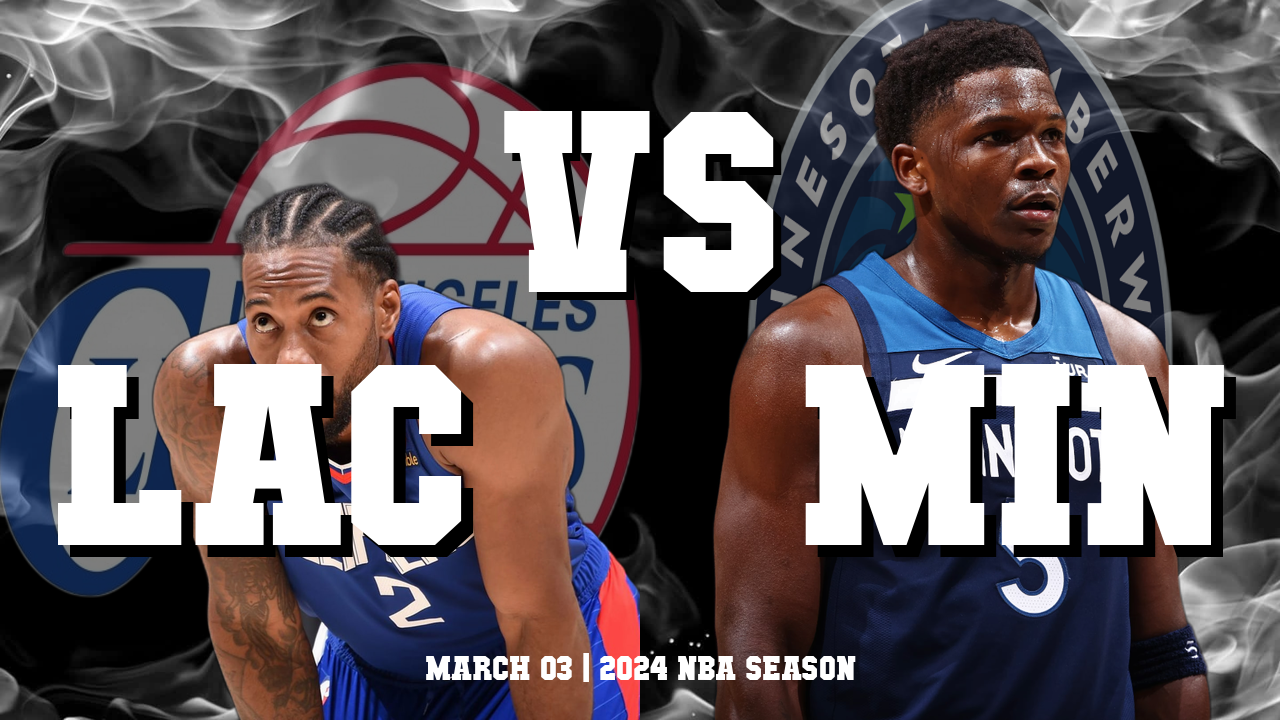
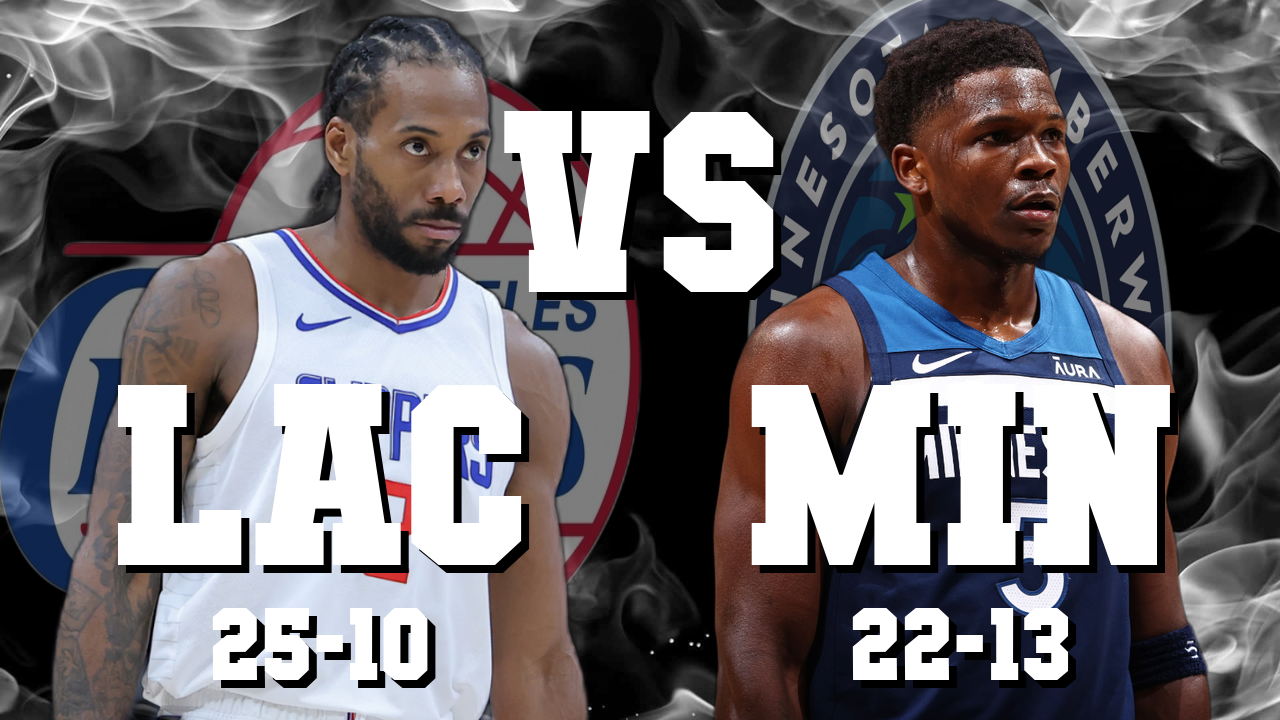
feat: Enhance team information display and layout in nba_highlight_thumbnail.png

diff --git a/src/main.py b/src/main.py
@@ -328,33 +328,80 @@ def main(
         team1_name = "LAC"
         team2_name = "MIN"
         team_name_font = ImageFont.truetype(font_path, 300)
-        team1_name_position = ((thumbnail_width - text_width) // 4 - 200, thumbnail_height - 400)
-        team2_name_position = (3 * (thumbnail_width - text_width) // 4 + 50, thumbnail_height - 400)
-        # Set shadow details
-        shadow_offset = (12, 12)
-        shadow_color = "black"
+        # Calculate the bounding box and thus the width of the team names
+        team1_name_bbox = draw.textbbox((0, 0), team1_name, font=team_name_font)
+        team2_name_bbox = draw.textbbox((0, 0), team2_name, font=team_name_font)
 
-        # Draw the team names with shadows
-        for team_name, team_name_position in [(team1_name, team1_name_position), (team2_name, team2_name_position)]:
-            # Calculate the bounding box for the text and the shadow position
-            bbox = draw.textbbox(team_name_position, team_name, font=team_name_font)
-            text_width = bbox[2] - bbox[0]
-            text_height = bbox[3] - bbox[1]
-            shadow_position = (team_name_position[0] + shadow_offset[0], team_name_position[1] + shadow_offset[1])
+        team1_name_width = team1_name_bbox[2] - team1_name_bbox[0]
+        team2_name_width = team2_name_bbox[2] - team2_name_bbox[0]
+
+        team_name_y_offset = 380
+
+        # Calculate the `y` position for the team names
+        team1_name_y = thumbnail_height - team_name_y_offset
+        team2_name_y = thumbnail_height - team_name_y_offset
+
+        # Calculate new positions for the team names to be centered in their respective halves
+        team1_name_x = (half_width - team1_name_width) // 2
+        team2_name_x = half_width + (half_width - team2_name_width) // 2
+
+        # Now, define the position tuples for each team name
+        team1_name_position = (team1_name_x, team1_name_y)
+        team2_name_position = (team2_name_x, team2_name_y)
+
+        # Draw the team names with shadows, centered
+        for team_name, name_position in [(team1_name, team1_name_position), (team2_name, team2_name_position)]:
+            # Calculate the shadow position for the name
+            shadow_position = (name_position[0] + shadow_offset[0], name_position[1] + shadow_offset[1])
             
             # Draw the shadow first
             draw.text(shadow_position, team_name, fill=shadow_color, font=team_name_font)
             
-            # Then draw the text over it
-            draw.text(team_name_position, team_name, fill=text_color, font=team_name_font)
+            # Then draw the name text over it
+            draw.text(name_position, team_name, fill=text_color, font=team_name_font)
 
-        # Draw the date
-        # Example of adding date and season text
-        date_font = ImageFont.truetype(font_path, 40)
-        date_text = "MARCH 03 | 2024 NBA SEASON"
-        date_position = (thumbnail_width // 2, thumbnail_height - 50)
-        draw.text(date_position, date_text, fill="white", font=date_font, anchor="mm")
-        
+
+        # Assume we have the records for the two teams
+        team1_record = "25-10"
+        team2_record = "22-13"
+
+        # Set the font size for the records smaller than the team names
+        record_font_size = 120  # Adjust based on your preference
+        record_font = ImageFont.truetype(font_path, record_font_size)
+
+        # Use the textbbox method to get the bounding box of the record text, which gives you the dimensions
+        team1_record_bbox = draw.textbbox((0, 0), team1_record, font=record_font)
+        team2_record_bbox = draw.textbbox((0, 0), team2_record, font=record_font)
+
+        # Calculate the width of the text for each team's record from the bounding box
+        team1_record_width = team1_record_bbox[2] - team1_record_bbox[0]
+        team2_record_width = team2_record_bbox[2] - team2_record_bbox[0]
+
+        # Calculate new positions for the records to be centered in their respective halves of the thumbnail
+        team1_record_x = (half_width - team1_record_width) // 2
+        team2_record_x = half_width + (half_width - team2_record_width) // 2
+
+        # Update the Y positions if necessary to place them under the team names
+        team1_record_y = team1_name_position[1] + 250  # Adjust based on your preference and font size
+        team2_record_y = team2_name_position[1] + 250  # Adjust based on your preference and font size
+
+        # Update the record positions with the newly calculated positions
+        team1_record_position = (team1_record_x, team1_record_y)
+        team2_record_position = (team2_record_x, team2_record_y)
+
+        # Draw the team records with shadows
+        for record, record_position in [(team1_record, team1_record_position), (team2_record, team2_record_position)]:
+            # Calculate the shadow position for the record
+            shadow_position = (record_position[0] + shadow_offset[0], record_position[1] + shadow_offset[1])
+            
+            # Draw the shadow first
+            draw.text(shadow_position, record, fill=shadow_color, font=record_font)
+            
+            # Then draw the record text over it
+            draw.text(record_position, record, fill=text_color, font=record_font)
+
+
+                
         # Save the thumbnail
         thumbnail.save("nba_highlight_thumbnail.png")
 
